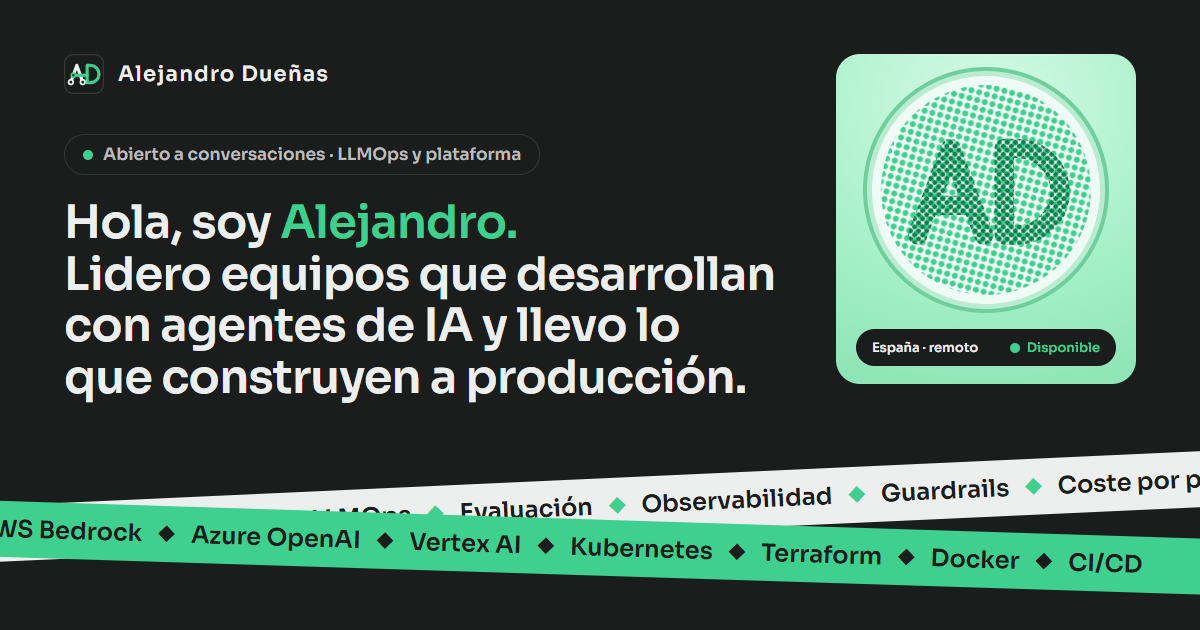
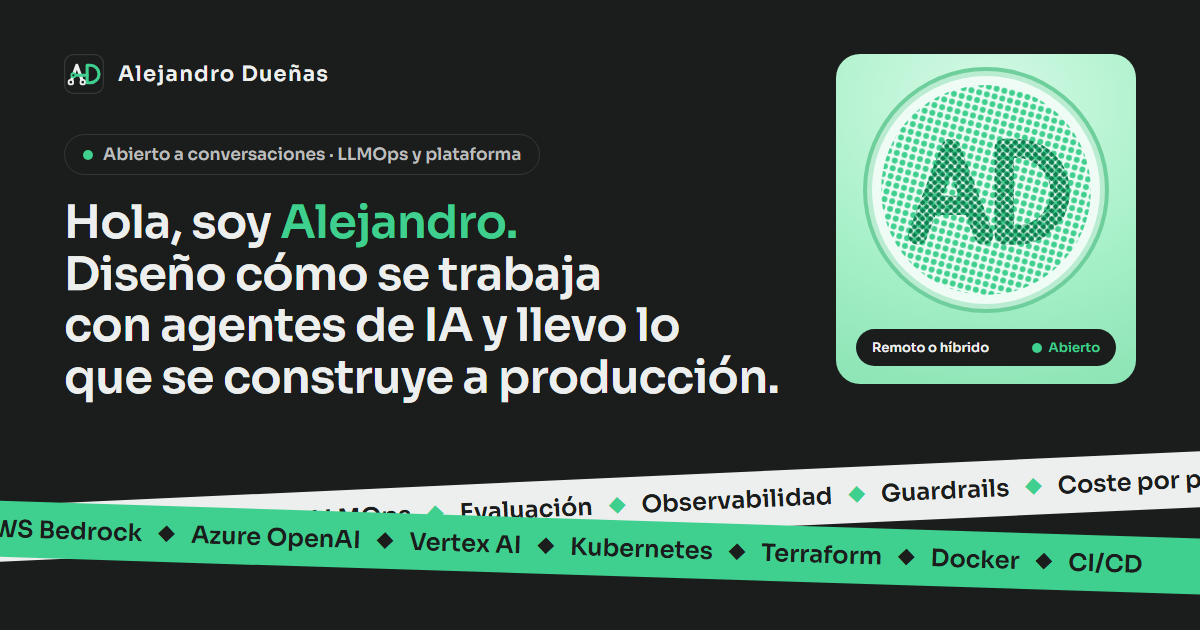
feat(portada): puesto, titular y búsqueda como en LinkedIn y el CV
Machine Learning Developer en Pangeanic, también arquitecto de IA y de
software; el liderazgo en pasado y, al final, lo que busca: un rol de
Arquitecto de IA o Tech Lead. FTChart como consultor de IA y desarrollador
full-stack, y el SaaS en WordPress en el capítulo de independiente.
Imagen para compartir regenerada con el titular nuevo.

OpenSpec-Change: colores-y-textos

Changed region(s): [[0.0617, 0.3921, 0.6475, 0.4825], [0.1233, 0.5429, 0.6475, 0.6333], [0.7092, 0.5429, 0.925, 0.573]]

diff --git a/src/data/perfil.ts b/src/data/perfil.ts
@@ -5,7 +5,7 @@ export const perfil = {
   nombre: 'Alejandro Dueñas Real',
   nombreCorto: 'Alejandro Dueñas',
   rol: 'Agentes de IA en producción y LLMOps',                       // <title> y og:image:alt
-  titulo: 'Developer Machine Learning · Ingeniero de IA y Full-Stack', // jobTitle del JSON-LD (el del CV)
+  titulo: 'Machine Learning Developer · Arquitecto de IA y de Software', // jobTitle del JSON-LD (el del CV)
   ubicacion: 'España · remoto o híbrido',
   estado: 'Abierto a conversaciones',
   correo: 'aduenasdev@gmail.com',
@@ -16,7 +16,7 @@ export const perfil = {
 
 // Meta description (≤ 160)
 export const descripcion =
-  'Lidero equipos que desarrollan con agentes de IA y llevo lo que construyen a producción, con revisión, pruebas y evaluación. Más de 10 años de software.';
+  'Machine Learning Developer en Pangeanic, también arquitecto de IA y de software: agentes de IA en producción con revisión, pruebas y evaluación.';
 
 // Crédito que exige la licencia CC BY 4.0 de Figma Community: autor, enlace, licencia y cambios. Va en «Cómo se hace».
 export const atribucion = {
@@ -39,10 +39,10 @@ export const conocimientos = [
 export const portada = {
   saludo: 'Hola, soy',
   nombre: 'Alejandro.',
-  lineasTitular: ['Lidero equipos que desarrollan con agentes de IA y llevo lo que construyen a producción.'],
+  lineasTitular: ['Diseño cómo se trabaja con agentes de IA y llevo lo que se construye a producción.'],
   insignia: 'LLMOps y plataforma',
   entrada:
-    'Pongo a un equipo a trabajar con agentes de IA sin perder el control: cada cambio, lo escriba una persona o un agente, pasa por revisión, pruebas y evaluación antes de salir, y siempre hay vuelta atrás. Más de 10 años construyendo software; hoy en Pangeanic y antes Team Leader de 6 equipos y más de 15 personas en una plataforma nacional con más de 45 M de pasajeros al año.',
+    'Diseño cómo se trabaja con agentes de IA sin perder el control: cada cambio, lo escriba una persona o un agente, pasa por revisión, pruebas y evaluación antes de salir, y siempre hay vuelta atrás. Más de 10 años construyendo software; hoy Machine Learning Developer en Pangeanic, donde también hago de arquitecto de IA y de software, y antes Team Leader de 6 equipos y más de 15 personas en una plataforma nacional con más de 45 M de pasajeros al año.',
   cintaUno: ['Agentes en producción', 'LLMOps', 'Evaluación', 'Observabilidad', 'Guardrails', 'Coste por petición', 'MCP', 'RAG'],
   cintaDos: ['AWS Bedrock', 'Azure OpenAI', 'Vertex AI', 'Kubernetes', 'Terraform', 'Docker', 'CI/CD', 'Python', 'LangGraph', 'Next.js'],
 };
@@ -51,7 +51,7 @@ export type Capa = 'producto' | 'liderazgo' | 'ia';
 export const capas: Record<Capa, string> = { producto: 'Producto', liderazgo: 'Liderazgo', ia: 'IA' };
 
 export const servicios: { titulo: string; texto: string; capa: Capa | 'senal' }[] = [
-  { titulo: 'Diseño de agentes', texto: 'Arquitectura de agentes y LLM: RAG con búsqueda híbrida (semántica, BM25 y metadatos), herramientas y servidores MCP, con permisos y límites claros de lo que puede hacer cada uno.', capa: 'ia' },
+  { titulo: 'Arquitectura de agentes', texto: 'Arquitectura de agentes y LLM: RAG con búsqueda híbrida (semántica, BM25 y metadatos), herramientas y servidores MCP, con permisos y límites claros de lo que puede hacer cada uno.', capa: 'ia' },
   { titulo: 'Despliegue y plataforma', texto: 'CI/CD, Docker, Kubernetes y Terraform en AWS: imágenes inmutables, despliegues sin corte y vuelta atrás preparada.', capa: 'producto' },
   { titulo: 'Observabilidad, evaluación y coste', texto: 'Trazas de cada llamada, un banco de evaluación antes de cada cambio, guardrails con nombre (cita obligatoria, modelo que falla en cerrado, revisión humana) y el coste de modelos e infraestructura bajo control.', capa: 'senal' },
   { titulo: 'Producto y equipo', texto: 'Full-stack con diseño y frontend propios (Next.js, Python, Java, .NET) y experiencia como Team Leader de 6 equipos y más de 15 personas.', capa: 'liderazgo' },
@@ -62,14 +62,14 @@ export const capitulos: { ano: string; fecha: string; puesto: string; donde: str
   { ano: '2009', fecha: '2009 → 2014', puesto: 'Licenciatura en Ciencias de la Computación', donde: 'Universidad Central «Marta Abreu» de Las Villas', texto: 'Algoritmos, redes, bases de datos e ingeniería de software.', capas: [], suma: ['La base'] },
   { ano: '2014', fecha: 'sep 2014 → feb 2021', puesto: 'Desarrollador full-stack y móvil', donde: 'SITRANS', texto: 'App Android de Viajando (Java → Kotlin) y su plataforma web; ciclo completo, del análisis al despliegue.', capas: ['producto'], suma: ['+ Producto full-stack y móvil'] },
   { ano: '2021', fecha: 'feb 2021 → ene 2024', puesto: 'Team Leader', donde: 'SITRANS · Viajando', texto: 'Al frente de 6 equipos y más de 15 personas (desarrollo, QA, soporte e infraestructura) en la plataforma nacional de pasajes: arquitectura y dirección técnica, entregas, pagos y antifraude, en coordinación con el operador y el ministerio.', capas: ['producto', 'liderazgo'], suma: ['+ Liderazgo de 6 equipos', '45 M de pasajeros al año'] },
-  { ano: '2022', fecha: 'mar 2022 → ene 2024', puesto: 'Ingeniero de software independiente', donde: 'Clientes de México y Panamá', texto: 'Logística para la Zona Libre de Colón (Spring Boot, Next.js, AWS) y un SaaS de viajes con más de 86.000 hoteles. Preventa, propuestas y PoC.', capas: ['producto'], suma: ['+ Preventa y PoC'] },
+  { ano: '2022', fecha: 'mar 2022 → ene 2024', puesto: 'Ingeniero y consultor independiente', donde: 'Clientes de EE. UU., México y Panamá', texto: 'Logística para la Zona Libre de Colón (Spring Boot, Next.js, AWS), un SaaS de viajes con más de 86.000 hoteles y un SaaS sobre WordPress para una constructora de EE. UU., con plugins propios para pagos e integraciones y la infraestructura a mi cargo. Preventa, propuestas y PoC.', capas: ['producto'], suma: ['+ Preventa, PoC y DevOps'] },
   { ano: '2024', fecha: 'mar 2024 → abr 2026', puesto: 'Desarrollador de aplicaciones', donde: 'Pangeanic · externo, remoto', texto: 'Como profesional externo: microservicios, herramientas internas en Next.js y despliegue en AWS.', capas: ['producto', 'ia'], suma: ['+ Microservicios y AWS'] },
-  { ano: '2025', fecha: 'jun 2025 → jun 2026', puesto: 'Consultor de IA', donde: 'FTChart · EE. UU., remoto', texto: 'IA clínica para médicos: un agente RAG que elige entre búsqueda semántica, BM25 y por metadatos; respuestas que citan la página exacta, y guardrails que fallan en cerrado.', capas: ['producto', 'ia'], suma: ['+ Agentes y guardrails en producción'] },
-  { ano: '2026', fecha: 'abr 2026 → hoy', puesto: 'Developer Machine Learning', donde: 'Pangeanic · plantilla', texto: 'LLM, RAG y NLP en producción; modelos con PyTorch en GPU; microservicios en Python, Node.js y Java; interfaces en Next.js; plataforma interna para trabajar con agentes de código.', capas: ['producto', 'ia'], suma: ['+ LLM, RAG y agentes en producción'] },
+  { ano: '2025', fecha: 'jun 2025 → jun 2026', puesto: 'Consultor de IA y desarrollador full-stack', donde: 'FTChart · EE. UU., remoto', texto: 'IA clínica para médicos: un agente RAG que elige entre búsqueda semántica, BM25 y por metadatos; respuestas que citan la página exacta, y guardrails que fallan en cerrado.', capas: ['producto', 'ia'], suma: ['+ Agentes y guardrails en producción'] },
+  { ano: '2026', fecha: 'abr 2026 → hoy', puesto: 'Machine Learning Developer', donde: 'Pangeanic · plantilla', texto: 'También arquitecto de IA y de software. LLM, RAG y NLP en producción; modelos con PyTorch en GPU; microservicios en Python, Node.js y Java; interfaces en Next.js; plataforma interna para trabajar con agentes de código.', capas: ['producto', 'ia'], suma: ['+ LLM, RAG y agentes en producción'] },
 ];
 export const proximoCapitulo = {
   puesto: 'Las tres capas, a la vez',
-  texto: 'Lo que busco: diseñar y operar agentes en producción y la plataforma que los sostiene, con un equipo.',
+  texto: 'Lo que busco: un rol de Arquitecto de IA o Tech Lead, para diseñar y operar agentes en producción y la plataforma que los sostiene, con un equipo.',
   capas: ['producto', 'liderazgo', 'ia'] as Capa[],
 };
 
@@ -91,7 +91,7 @@ export const trabajos: { sello: string; titulo: string; url?: string; contexto: 
   { sello: 'Ahora', titulo: 'LLM y agentes en producción', contexto: 'Pangeanic, desde 2024.',
     hecho: 'Integración de LLM en flujos de producción con recuperación de contexto (RAG), trazas de cada llamada y evaluación con un banco fijo antes de cada cambio. Microservicios, interfaces en Next.js, despliegues sin corte en AWS y agentes de código con revisión, pruebas y permisos.',
     stack: ['Python', 'LangChain / LangGraph', 'AWS Bedrock', 'pgvector', 'Next.js'], tinta: 'senal' },
-  { sello: 'EE. UU.', titulo: 'FTChart · IA clínica con respuestas verificables', url: 'https://ftchart.com/', contexto: 'Consultor de IA, de junio de 2025 a junio de 2026. Plataforma para médicos de EE. UU., en producción.',
+  { sello: 'EE. UU.', titulo: 'FTChart · IA clínica con respuestas verificables', url: 'https://ftchart.com/', contexto: 'Consultor de IA y desarrollador full-stack, de junio de 2025 a junio de 2026. Plataforma para médicos de EE. UU., en producción.',
     hecho: 'Un agente RAG que, para cada pregunta, elige entre búsqueda semántica, por palabras clave (BM25) y por metadatos del historial. Guardrails con nombre: cada afirmación cita la página exacta de la que sale; el modelo lo elige la aplicación y, si ninguno es de confianza, la pregunta no sale; los datos del paciente se tokenizan antes de llegar a un modelo remoto; la salida del modelo se sanea como entrada no fiable, y una persona revisa cada nota de IA antes de archivarla. Más de 7.500 pruebas automáticas antes de cada versión.',
     stack: ['RAG agéntico', 'Búsqueda híbrida', 'Next.js', 'TypeScript', 'Gemini en Vertex AI'], tinta: 'ia' },
   { sello: '2021 → 2024', titulo: 'Viajando · billetes para todo un país', contexto: 'Plataforma oficial de billetes de autobús y tren de Cuba, más de 45 M de pasajeros al año.',

diff --git a/scripts/og.html b/scripts/og.html
@@ -53,7 +53,7 @@
     Alejandro Dueñas
   </div>
   <div class="pildora"><span class="punto"></span>Abierto a conversaciones · LLMOps y plataforma</div>
-  <h1>Hola, soy <em>Alejandro.</em><br>Lidero equipos que desarrollan<br>con agentes de IA y llevo lo<br>que construyen a producción.</h1>
+  <h1>Hola, soy <em>Alejandro.</em><br>Diseño cómo se trabaja<br>con agentes de IA y llevo lo<br>que se construye a producción.</h1>
 
   <div class="foto">
     <div class="ventana">
@@ -69,7 +69,7 @@
         </g>
       </svg>
     </div>
-    <div class="pie"><span>España · remoto</span><b><span class="punto"></span>Disponible</b></div>
+    <div class="pie"><span>Remoto o híbrido</span><b><span class="punto"></span>Abierto</b></div>
   </div>
 
   <div class="cinta uno"><span>Agentes en producción</span><i>◆</i><span>LLMOps</span><i>◆</i><span>Evaluación</span><i>◆</i><span>Observabilidad</span><i>◆</i><span>Guardrails</span><i>◆</i><span>Coste por petición</span><i>◆</i><span>MCP</span></div>

diff --git a/openspec/changes/colores-y-textos/specs/identidad/spec.md b/openspec/changes/colores-y-textos/specs/identidad/spec.md
@@ -31,9 +31,10 @@ pasajeros al año, «6 equipos y más de 15 personas» en Viajando).
 - **WHEN** se abre `/`
 - **THEN** no aparece «12 años», y el capítulo de Team Leader, la tarjeta de Viajando y la respuesta «¿Ha liderado equipos?» dicen «6 equipos y más de 15 personas»
 
-### Requirement: Titular de liderazgo
-El H1 de la portada SHALL ser «Hola, soy Alejandro. Lidero equipos que desarrollan con agentes de IA y llevo lo que
-construyen a producción.», y la imagen para compartir MUST decir lo mismo.
+### Requirement: Titular
+El H1 de la portada SHALL ser «Hola, soy Alejandro. Diseño cómo se trabaja con agentes de IA y llevo lo que se
+construye a producción.», y la imagen para compartir MUST decir lo mismo. MUST NOT presentar el liderazgo de equipos
+como el puesto actual: el liderazgo se cuenta en pasado (Team Leader de Viajando).
 
 #### Scenario: Titular
 - **WHEN** se abre `/` a 1440×900
@@ -49,7 +50,7 @@ CC BY 4.0 y los cambios hechos. El pie de las páginas MUST NOT llevarlo.
 
 ### Requirement: Trayectoria con FTChart
 La trayectoria SHALL tener 7 capítulos en orden cronológico por fecha de inicio, con FTChart como capítulo propio
-(«Consultor de IA», jun 2025 → jun 2026) entre los dos de Pangeanic, más «Las tres capas, a la vez». Sin JavaScript
+(«Consultor de IA y desarrollador full-stack», jun 2025 → jun 2026) entre los dos de Pangeanic, más «Las tres capas, a la vez». Sin JavaScript
 MUST verse los 8 bloques.
 
 #### Scenario: Etiqueta y orden
@@ -71,3 +72,12 @@ decir «Disponible». El capítulo de ingeniero independiente SHALL acabar en en
 #### Scenario: Píldora y capítulo 2022
 - **WHEN** se abre `/`
 - **THEN** la página no contiene «Disponible», la píldora de la foto dice «Abierto a conversaciones» y el capítulo de 2022 dice «mar 2022 → ene 2024»
+
+### Requirement: Hoy, antes y lo que busca, como en LinkedIn y el CV
+La web SHALL dar el puesto actual como en el CV y en LinkedIn («Machine Learning Developer» en Pangeanic, que
+también hace de arquitecto de IA y de software), el liderazgo como experiencia pasada y lo que busca al final («un rol
+de Arquitecto de IA o Tech Lead»). MUST NOT aparecer «Developer Machine Learning».
+
+#### Scenario: Puesto y búsqueda
+- **WHEN** se abre `/`
+- **THEN** el capítulo de 2026 dice «Machine Learning Developer», el último bloque de la trayectoria dice «Arquitecto de IA o Tech Lead» y la página no contiene «Developer Machine Learning» ni «Lidero equipos»

diff --git a/openspec/changes/colores-y-textos/tasks.md b/openspec/changes/colores-y-textos/tasks.md
@@ -19,3 +19,4 @@
 - [x] 3.2 Vista previa en Cloudflare Pages desde `feat/colores-y-textos`
 - [x] 3.3 Píldora de la foto con `perfil.estado` y capítulo 2022 hasta ene 2024; comprobar a 390, 768 y 1440 px que la píldora cabe
 - [x] 3.4 «6 equipos y más de 15 personas» en la entrada, el capítulo 2021, Viajando, «Producto y equipo» y la pregunta de liderazgo; reglas de `AGENTS.md` y `openspec/config.yaml` al día
+- [x] 3.5 Textos sincronizados con LinkedIn y el CV (21-nov): «Machine Learning Developer» y «también arquitecto de IA y de software», titular sin «Lidero equipos», FTChart «Consultor de IA y desarrollador full-stack», el SaaS en WordPress en el capítulo 2022 y «Arquitecto de IA o Tech Lead» al final; `og.png` regenerado con Chrome (con `--virtual-time-budget` para que carguen las fuentes). Comprobar con `grep` en `dist/index.html` que no aparecen «Lidero equipos», «Developer Machine Learning» ni «Disponible»

diff --git a/src/content/blog/2026-11-23-hola-soy-alejandro.md b/src/content/blog/2026-11-23-hola-soy-alejandro.md
@@ -25,7 +25,7 @@ Después trabajé como independiente para clientes de Estados Unidos, México y 
 
 ## Qué busco
 
-Un puesto donde **diseñar y operar agentes de IA en producción** y la plataforma que los sostiene: despliegue,
+Un rol de **Arquitecto de IA o Tech Lead** donde **diseñar y operar agentes de IA en producción** y la plataforma que los sostiene: despliegue,
 observabilidad, evaluación, guardrails y coste. Y hacerlo con un equipo, que es donde junto las tres capas de mi
 trayectoria: producto, liderazgo e IA.
 
